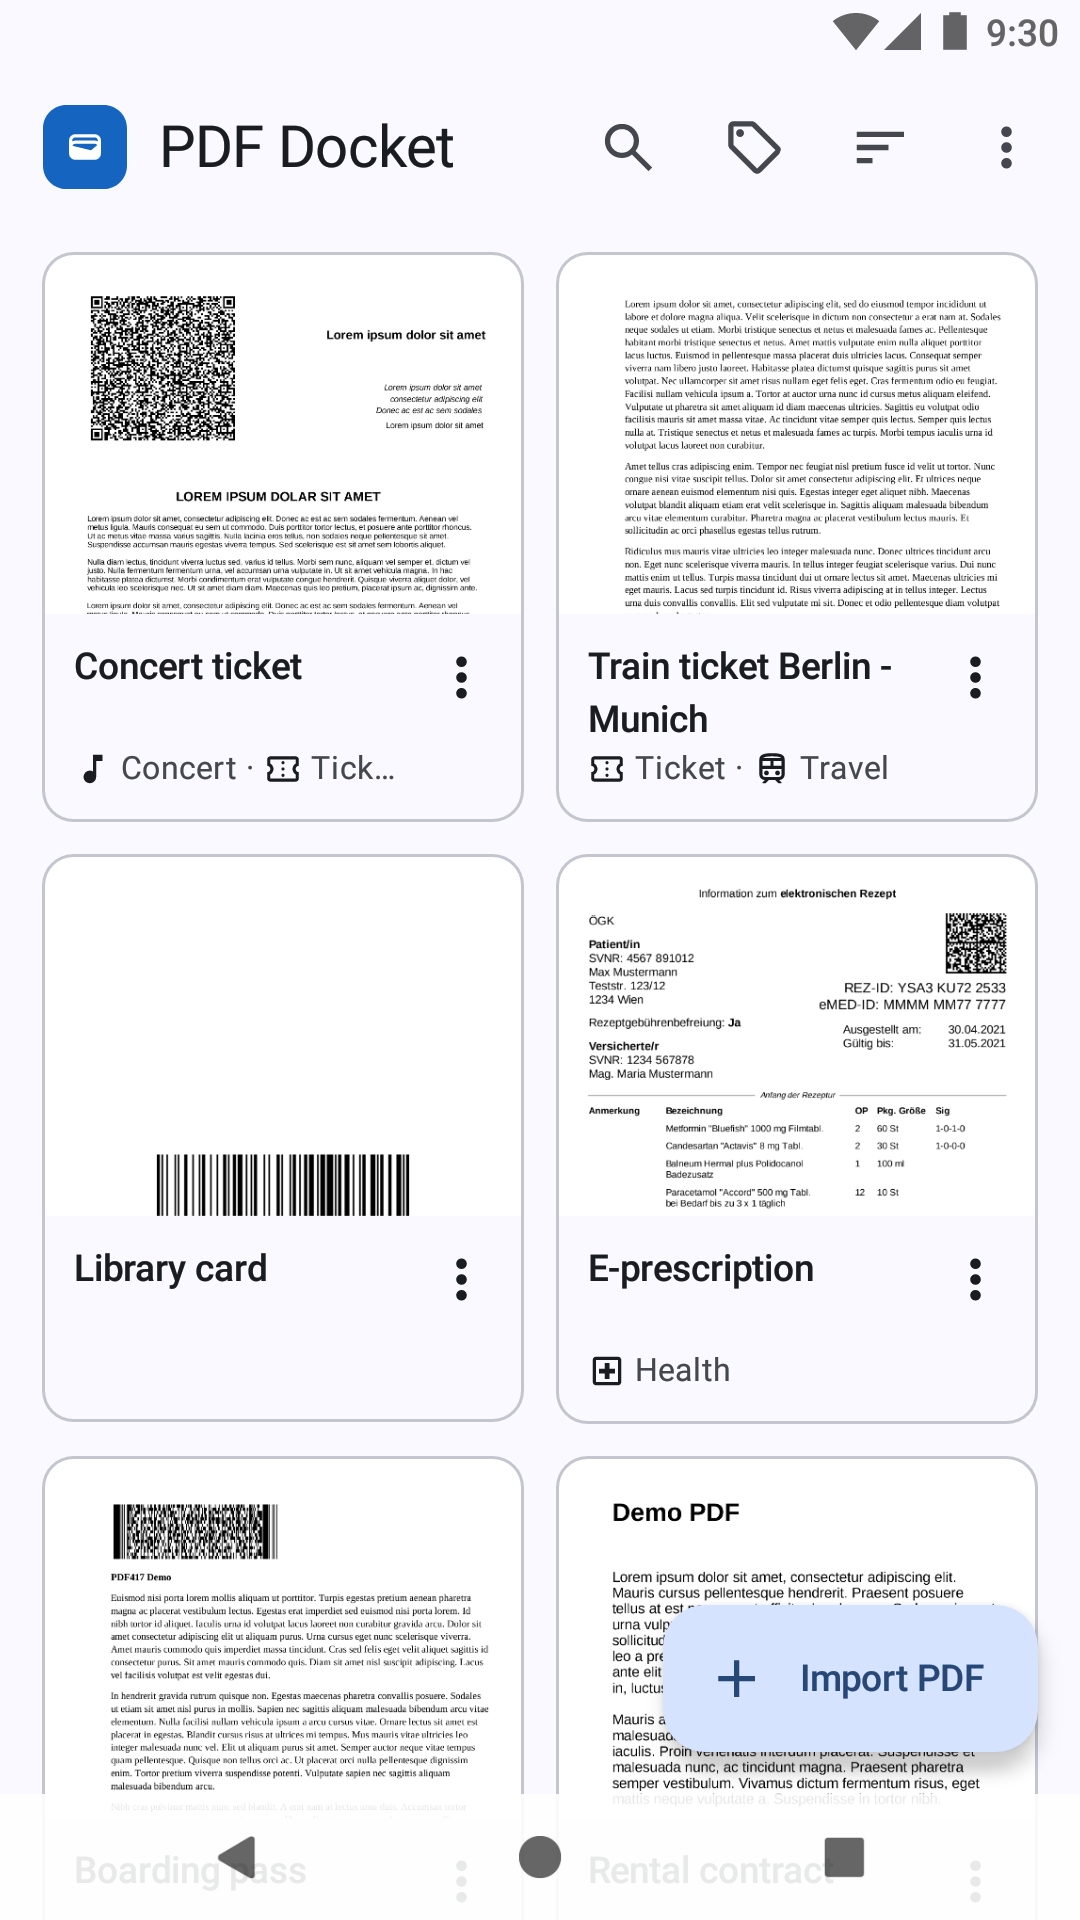
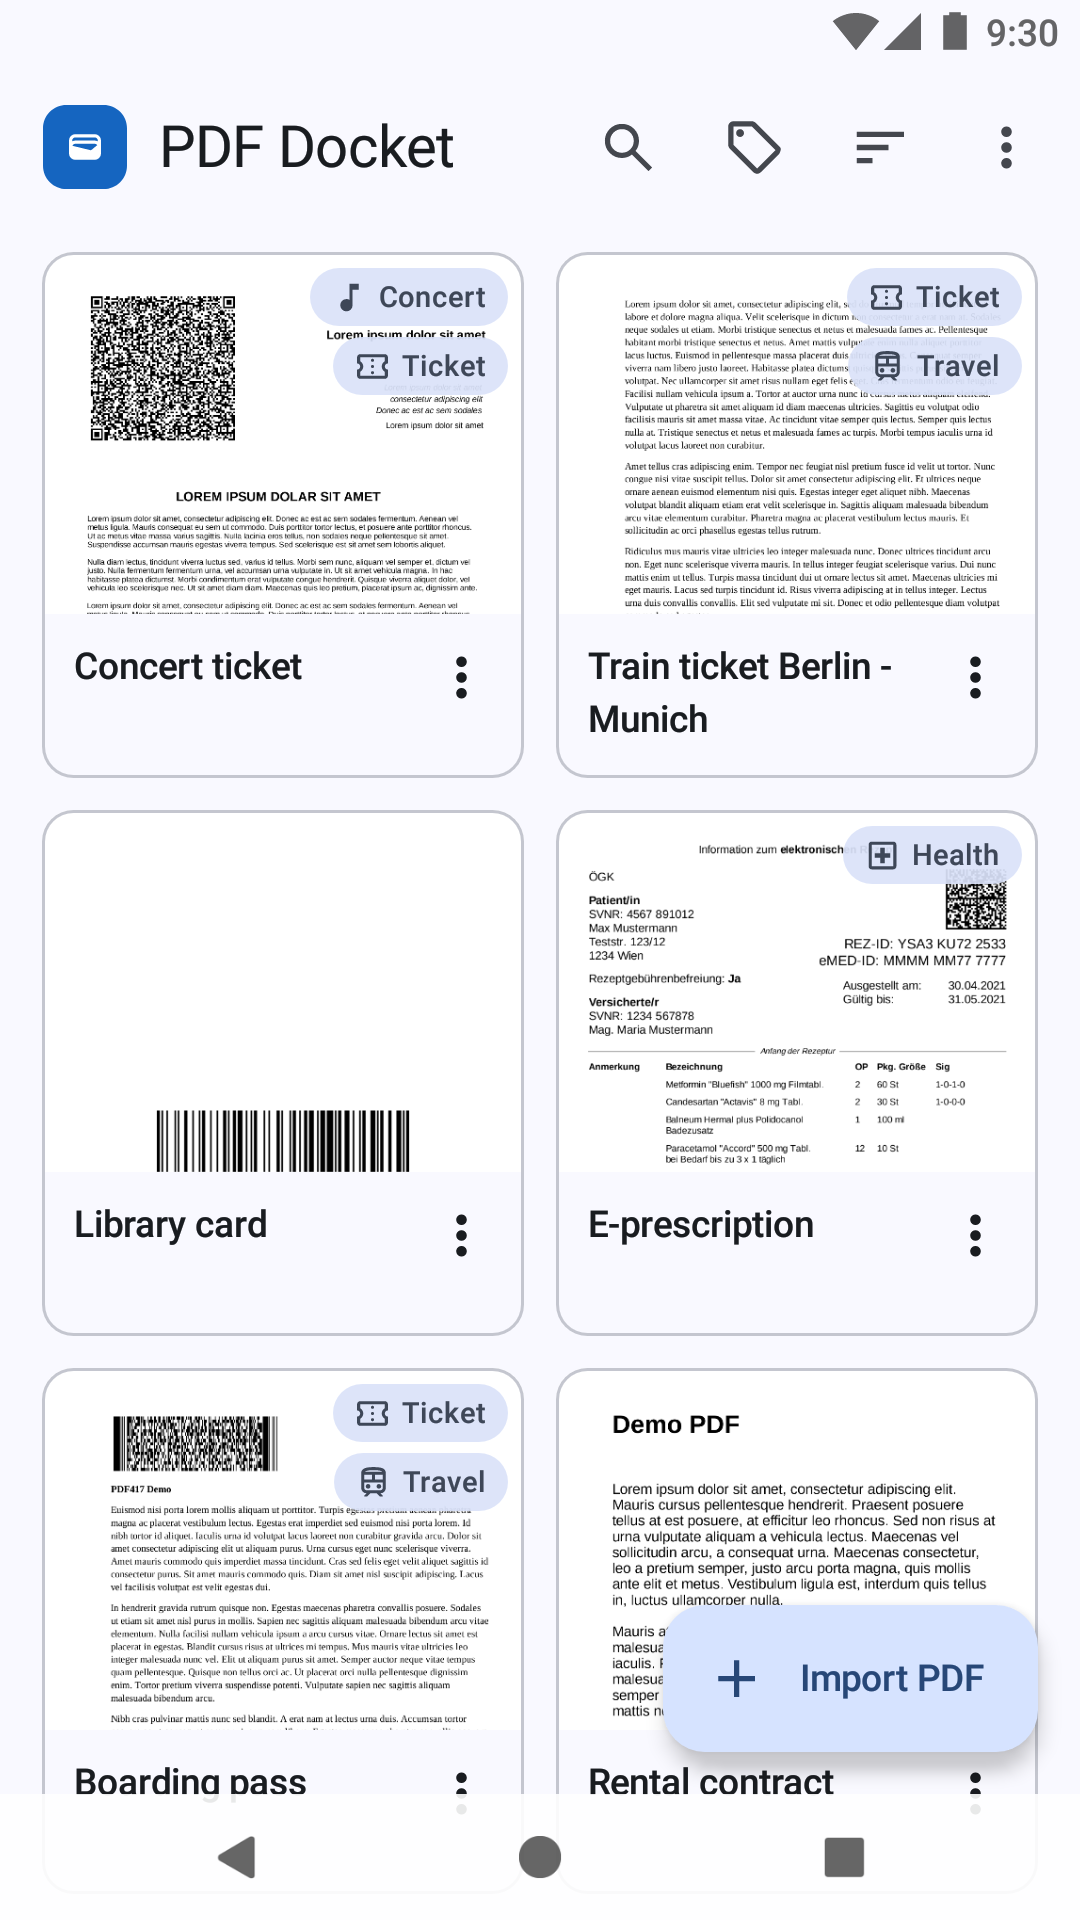
feat: show tags on the preview in the grid, so all tiles have the same height

diff --git a/app/src/main/java/me/d3sox/pdfwallet/documents/DocumentTile.kt b/app/src/main/java/me/d3sox/pdfwallet/documents/DocumentTile.kt
@@ -4,6 +4,7 @@ import androidx.compose.foundation.BorderStroke
 import androidx.compose.foundation.Image
 import androidx.compose.foundation.background
 import androidx.compose.foundation.combinedClickable
+import androidx.compose.foundation.layout.Arrangement
 import androidx.compose.foundation.layout.Box
 import androidx.compose.foundation.layout.Column
 import androidx.compose.foundation.layout.Row
@@ -12,7 +13,10 @@ import androidx.compose.foundation.layout.aspectRatio
 import androidx.compose.foundation.layout.fillMaxSize
 import androidx.compose.foundation.layout.fillMaxWidth
 import androidx.compose.foundation.layout.padding
+import androidx.compose.foundation.layout.size
 import androidx.compose.foundation.layout.width
+import androidx.compose.foundation.layout.widthIn
+import androidx.compose.foundation.shape.CircleShape
 import androidx.compose.foundation.text.InlineTextContent
 import androidx.compose.foundation.text.appendInlineContent
 import androidx.compose.material.icons.Icons
@@ -23,6 +27,7 @@ import androidx.compose.material3.Icon
 import androidx.compose.material3.IconButton
 import androidx.compose.material3.MaterialTheme
 import androidx.compose.material3.OutlinedCard
+import androidx.compose.material3.Surface
 import androidx.compose.material3.Text
 import androidx.compose.runtime.Composable
 import androidx.compose.runtime.getValue
@@ -54,6 +59,8 @@ import me.d3sox.pdfwallet.documents.tags.iconDrawable
 
 private const val PREVIEW_ASPECT_RATIO = 4f / 3f
 private val LIST_PREVIEW_WIDTH = 96.dp
+private const val MAX_TAG_CHIPS = 3
+private val TAG_CHIP_MAX_WIDTH = 120.dp
 
 /**
  * A grid tile with a preview of the first page above the document name and tags,
@@ -96,13 +103,22 @@ fun DocumentTile(
         if (asListItem) {
             Row(verticalAlignment = Alignment.CenterVertically) {
                 Preview(document.id, loadThumbnail, Modifier.width(LIST_PREVIEW_WIDTH))
-                NameTagsAndActions(document, onDialog, selectionMode, isSelected, minNameLines = 1)
+                NameTagsAndActions(document, onDialog, selectionMode, isSelected, minNameLines = 1, showTags = true)
             }
         } else {
-            Preview(document.id, loadThumbnail, Modifier.fillMaxWidth())
+            // the tags are on the preview, so they don't change the height of the tile
+            Box {
+                Preview(document.id, loadThumbnail, Modifier.fillMaxWidth())
+                TagChips(
+                    document.tags,
+                    Modifier
+                        .align(Alignment.TopEnd)
+                        .padding(6.dp),
+                )
+            }
             Row(verticalAlignment = Alignment.Top) {
                 // reserves the same height in every tile, so the grid rows line up
-                NameTagsAndActions(document, onDialog, selectionMode, isSelected, minNameLines = 2)
+                NameTagsAndActions(document, onDialog, selectionMode, isSelected, minNameLines = 2, showTags = false)
             }
         }
     }
@@ -115,6 +131,7 @@ private fun RowScope.NameTagsAndActions(
     selectionMode: Boolean,
     isSelected: Boolean,
     minNameLines: Int,
+    showTags: Boolean,
 ) {
     Column(
         modifier = Modifier
@@ -128,7 +145,8 @@ private fun RowScope.NameTagsAndActions(
             maxLines = 2,
             overflow = TextOverflow.Ellipsis,
         )
-        TagsLine(document.tags)
+        // an empty line would push the name off center
+        if (showTags && document.tags.isNotEmpty()) TagsLine(document.tags)
     }
     if (selectionMode) {
         Checkbox(checked = isSelected, onCheckedChange = null, modifier = Modifier.padding(12.dp))
@@ -138,6 +156,52 @@ private fun RowScope.NameTagsAndActions(
             Icon(Icons.Filled.MoreVert, contentDescription = stringResource(R.string.more_options))
         }
         DocumentMenu(document = document, expanded = showMenu, onDismiss = { showMenu = false }, onDialog = onDialog)
+    }
+}
+
+/**
+ * The first [MAX_TAG_CHIPS] tags as chips, and how many more there are.
+ */
+@Composable
+private fun TagChips(tags: List<Tag>, modifier: Modifier) {
+    Column(
+        horizontalAlignment = Alignment.End,
+        verticalArrangement = Arrangement.spacedBy(4.dp),
+        modifier = modifier,
+    ) {
+        tags.take(MAX_TAG_CHIPS).forEach { tag ->
+            TagChip(tag.name, tag.iconDrawable)
+        }
+        if (tags.size > MAX_TAG_CHIPS) {
+            TagChip("+${tags.size - MAX_TAG_CHIPS}", icon = null)
+        }
+    }
+}
+
+@Composable
+private fun TagChip(text: String, icon: Int?) {
+    Surface(
+        shape = CircleShape,
+        color = MaterialTheme.colorScheme.secondaryContainer.copy(alpha = 0.92f),
+        contentColor = MaterialTheme.colorScheme.onSecondaryContainer,
+    ) {
+        Row(
+            verticalAlignment = Alignment.CenterVertically,
+            modifier = Modifier
+                .widthIn(max = TAG_CHIP_MAX_WIDTH)
+                .padding(horizontal = 8.dp, vertical = 3.dp),
+        ) {
+            if (icon != null) {
+                Icon(
+                    painterResource(icon),
+                    contentDescription = null,
+                    modifier = Modifier
+                        .padding(end = 4.dp)
+                        .size(14.dp),
+                )
+            }
+            Text(text, style = MaterialTheme.typography.labelSmall, maxLines = 1, overflow = TextOverflow.Ellipsis)
+        }
     }
 }
 
